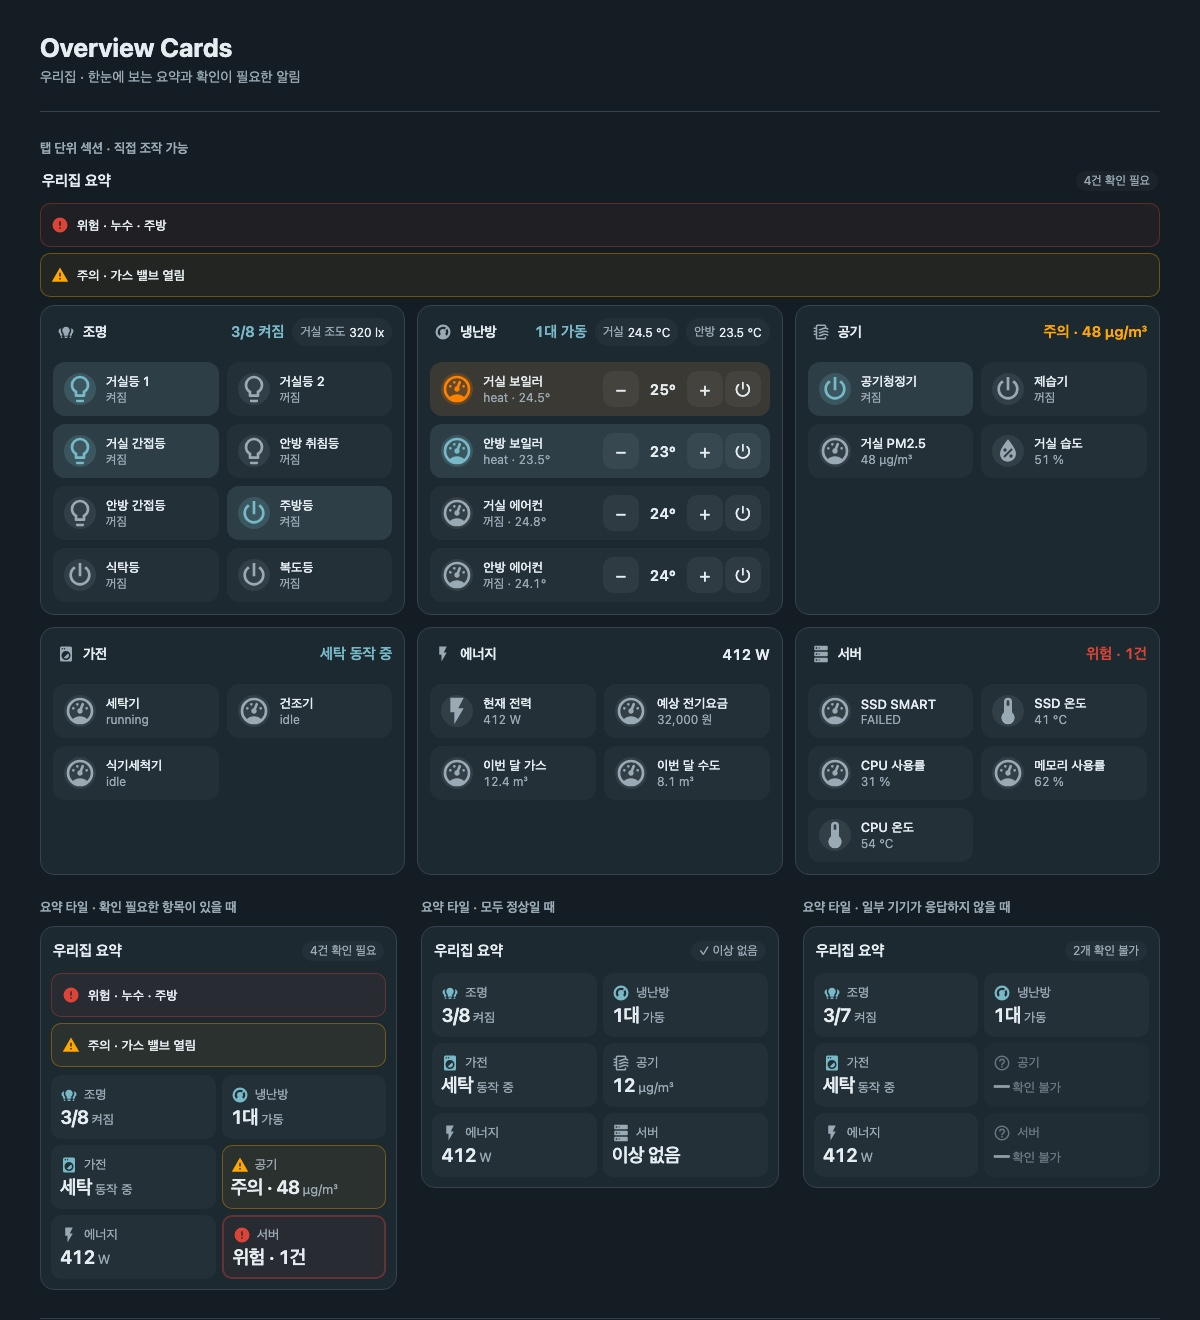
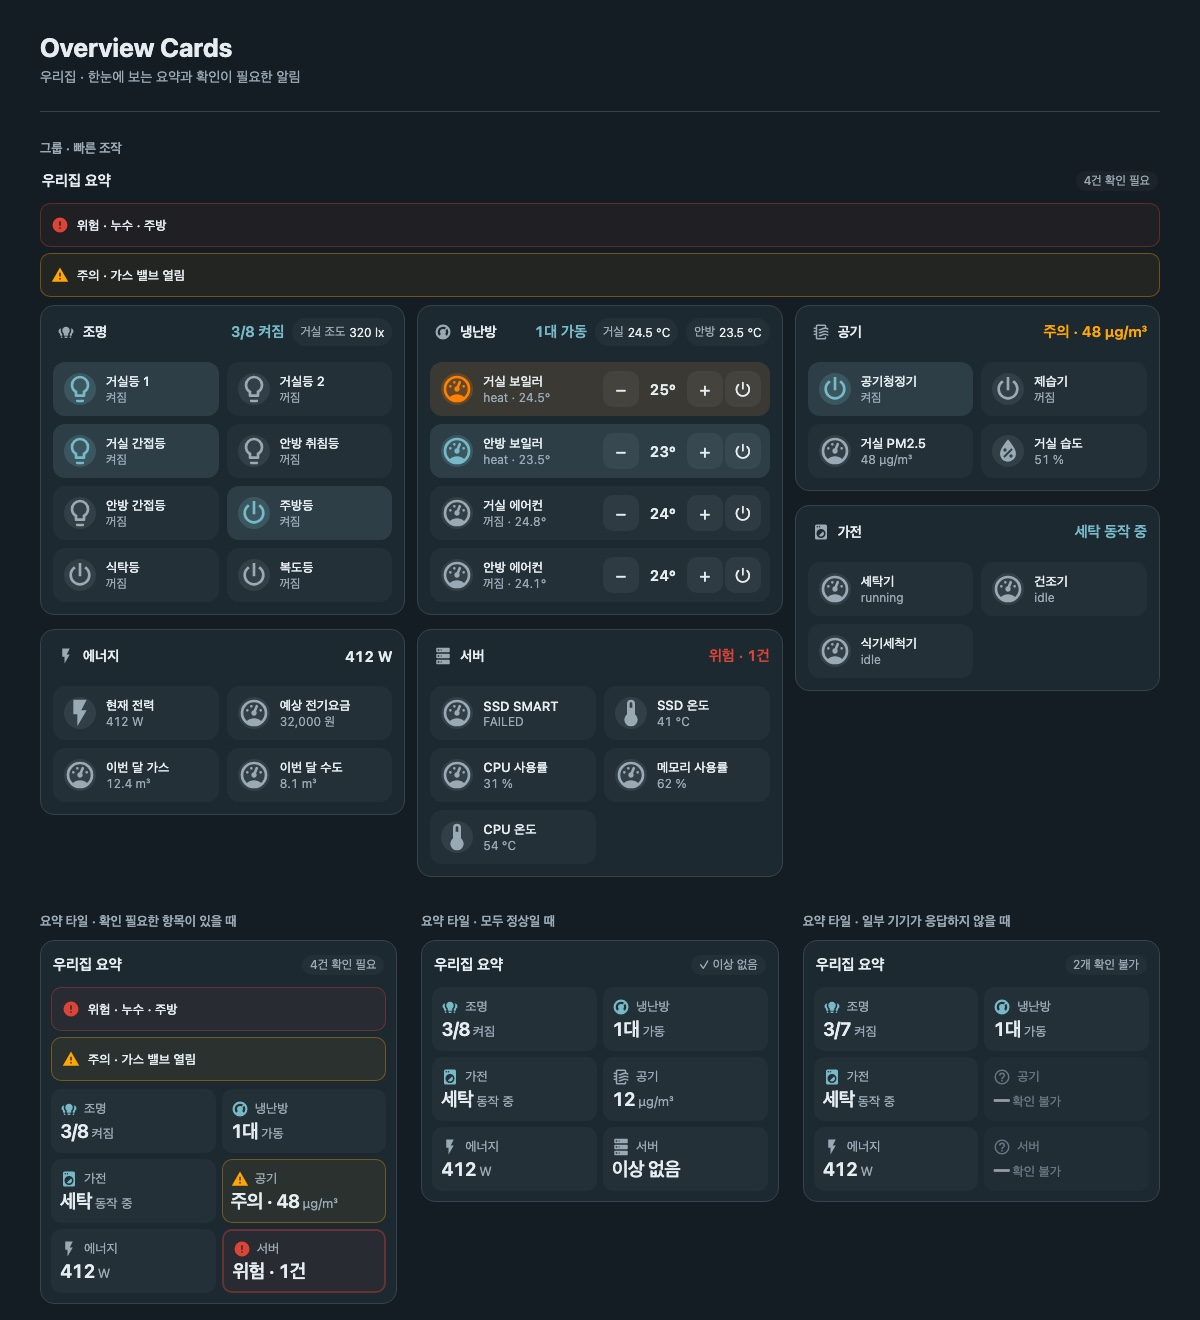
feat: pack groups at natural height and add group span (v0.3.1)

diff --git a/compact-overview-card.js b/compact-overview-card.js
@@ -139,14 +139,17 @@
         .main small{font-size:13px;font-weight:400;letter-spacing:0;color:var(--secondary-text-color);margin-left:3px}
         .main small:empty{display:none}.sub{font-size:12px;color:var(--secondary-text-color);overflow:hidden;text-overflow:ellipsis;white-space:nowrap;min-height:15px}
         @container(max-width:360px){.sub{display:none}.tile{padding:8px}}
-        /* Row-aligned grid: sections in a row share a height, so nothing ends up ragged. */
-        .sections{display:grid;grid-template-columns:repeat(auto-fill,minmax(min(320px,100%),1fr));gap:12px;margin-top:12px;align-items:stretch}.sections:empty{display:none;margin:0}
+        /* Packed grid: each group keeps its natural height and is placed into 4px row units (see _layoutSections), so columns have no blank space inside cards or gaps between them. */
+        .sections{display:grid;grid-template-columns:repeat(auto-fill,minmax(min(320px,100%),1fr));grid-auto-rows:4px;grid-auto-flow:row dense;column-gap:12px;row-gap:0;margin-top:12px;align-items:start}.sections:empty{display:none;margin:0}
         :host([data-bare]) .sections{margin-top:0}
         :host([section-columns="1"]) .sections{grid-template-columns:minmax(0,1fr)}
         :host([section-columns="2"]) .sections{grid-template-columns:repeat(2,minmax(0,1fr))}
         :host([section-columns="3"]) .sections{grid-template-columns:repeat(3,minmax(0,1fr))}
         @container(max-width:639px){:host([section-columns="2"]) .sections,:host([section-columns="3"]) .sections{grid-template-columns:minmax(0,1fr)}}
-        ha-card.section{display:flex;flex-direction:column;overflow:hidden;box-shadow:none}
+        ha-card.section{display:flex;flex-direction:column;overflow:hidden;box-shadow:none;align-self:start}
+        /* A group may span several columns (for example so climate rows fit on one line) when the card is wide enough. */
+        @container(min-width:700px){ha-card.section[data-span="2"],ha-card.section[data-span="3"]{grid-column:span 2}}
+        @container(min-width:1050px){ha-card.section[data-span="3"]{grid-column:span 3}}
         .sec-head{display:flex;align-items:center;gap:8px;flex-wrap:wrap;min-height:44px;padding:4px 12px 0}
         .sec-title{display:flex;align-items:center;gap:8px;flex:1 1 96px;min-width:96px;padding:4px;border:0;border-radius:6px;background:transparent;text-align:left;font:inherit;font-size:14px;font-weight:600;color:var(--primary-text-color)}
         div.sec-title{cursor:default}
@@ -210,6 +213,7 @@
         if (section.icon !== undefined && typeof section.icon !== 'string') fail('icon은 문자열이어야 합니다.');
         if (section.navigation_path !== undefined && !safePath(section.navigation_path)) fail('navigation_path는 /로 시작하는 로컬 경로여야 합니다.');
         if (section.columns !== undefined && !['auto', 1, 2].includes(section.columns)) fail('columns는 auto, 1, 2 중 하나여야 합니다.');
+        if (section.span !== undefined && ![1, 2, 3].includes(section.span)) fail('span은 1, 2, 3 중 하나여야 합니다.');
         const hasItems = section.items !== undefined, hasControls = section.controls !== undefined;
         if (!hasItems && !hasControls) fail('controls 또는 items가 필요합니다.');
         if (hasItems && (!Array.isArray(section.items) || !section.items.length || section.items.some(item => !item || typeof item !== 'object' || Array.isArray(item)))) fail('items에는 compact-home-panel 항목 목록이 필요합니다.');
@@ -235,6 +239,21 @@
       this.setAttribute('section-columns', config.section_columns ?? 'auto');
       this.toggleAttribute('data-bare', !tilesIn.length);
       this._build(); this._render();
+    }
+    connectedCallback() {
+      if (typeof ResizeObserver === 'function' && !this._resize) this._resize = new ResizeObserver(() => this._layoutSections());
+      for (const ref of this._sections) this._resize?.observe(ref.card);
+      this._layoutSections();
+    }
+    disconnectedCallback() { this._resize?.disconnect(); }
+    // Packs groups masonry-style: row span = group height in 4px units plus the 12px gap.
+    _layoutSections() {
+      for (const ref of this._sections) {
+        const height = ref.card.getBoundingClientRect().height;
+        if (!height) continue;
+        const span = `span ${Math.ceil((height + 12) / 4)}`;
+        if (ref.card.style.gridRowEnd !== span) ref.card.style.gridRowEnd = span;
+      }
     }
     set hass(hass) { this._hass = hass; this._render(); }
     getCardSize() {
@@ -423,8 +442,10 @@
 
     _buildSections() {
       const box = this.shadowRoot.querySelector('.sections'); box.replaceChildren(); this._sections = [];
+      this._resize?.disconnect();
       for (const section of this._config.sections ?? []) {
         const card = document.createElement('ha-card'); card.className = 'section';
+        if (section.span && section.span > 1) card.dataset.span = String(section.span);
         const head = document.createElement('div'); head.className = 'sec-head';
         const title = document.createElement(section.navigation_path ? 'button' : 'div'); title.className = 'sec-title';
         if (section.navigation_path) { title.onclick = () => this._go(section.navigation_path); title.setAttribute('aria-label', `${section.name} 열기`); }
@@ -444,6 +465,7 @@
         const body = document.createElement('div'); body.className = 'sec-body';
         card.append(head, controls, body); box.append(card);
         this._sections.push({ section, card, sum, badges, body, chips });
+        this._resize?.observe(card);
       }
     }
 

diff --git a/examples/showcase.html b/examples/showcase.html
@@ -54,7 +54,7 @@ function mount(host,config,scenario){
   card.addEventListener('hass-more-info',e=>notify(translate('모의 정보')+' · '+e.detail.entityId));host.append(card);
 }
 const main=document.querySelector('main');
-const wide=document.createElement('section');wide.className='wide';const wideTitle=document.createElement('h2');wideTitle.textContent='탭 단위 섹션 · 직접 조작 가능';wide.append(wideTitle);mount(wide,sectionsConfig,'alert');main.append(wide);
+const wide=document.createElement('section');wide.className='wide';const wideTitle=document.createElement('h2');wideTitle.textContent='그룹 · 빠른 조작';wide.append(wideTitle);mount(wide,sectionsConfig,'alert');main.append(wide);
 for(const [scenario,label]of [['alert','요약 타일 · 확인 필요한 항목이 있을 때'],['normal','요약 타일 · 모두 정상일 때'],['offline','요약 타일 · 일부 기기가 응답하지 않을 때']]){
   const section=document.createElement('section'),title=document.createElement('h2');title.textContent=label;section.append(title);mount(section,tilesConfig,scenario);main.append(section);
 }

diff --git a/examples/preview-locale.js b/examples/preview-locale.js
@@ -219,7 +219,7 @@ const dictionary={
  '일부 기기가 응답하지 않을 때':'When some devices do not respond',
  '우리집 · 한눈에 보는 요약과 확인이 필요한 알림':'My Home · An at-a-glance summary and alerts that need attention',
  '실제 Overview Cards로 구성한 모의 대시보드입니다. 표시된 값과 동작은 예시이며 실제 기기에 연결하지 않습니다.':'A mock dashboard built with the real Overview Cards. Values and actions are examples and nothing is connected to real devices.',
- '탭 단위 섹션 · 직접 조작 가능':'Tab sections · direct control',
+ '그룹 · 빠른 조작':'Groups · quick controls',
  '요약 타일 · 확인 필요한 항목이 있을 때':'Summary tiles · When something needs attention',
  '요약 타일 · 모두 정상일 때':'Summary tiles · When everything is normal',
  '요약 타일 · 일부 기기가 응답하지 않을 때':'Summary tiles · When some devices do not respond',

diff --git a/README.ko.md b/README.ko.md
@@ -70,10 +70,11 @@ sections:
 | `controls` | 예* | 빠른 조작 칩(아래) |
 | `items` | 예* | 칩 아래에 표시할 `compact-home-panel` 행(Compact Cards 필요). `*` `controls`/`items` 중 하나 이상 |
 | `icon`, `navigation_path` | 아니요 | 제목 아이콘, 로컬 경로 |
+| `span` | 아니요 | `2` 또는 `3`: 카드 폭이 700px 이상(3은 1050px 이상)일 때 그룹이 그 열 수만큼 차지합니다. 냉난방 행을 한 줄에 표시하려는 경우 등에 사용하며, 더 좁은 카드에서는 무시합니다 |
 | `summary` | 아니요 | `name` 없는 타일 사양(`count`, `climate`, `status`, `value`, `health`). 헤더에 굵게, 수준 색상으로 표시 |
 | `badges` | 아니요 | `[{ entity, name }]` 요약 옆 센서 값. 누르면 상세 정보 |
 
-최상위 `section_columns`(`auto`, `1`, `2`, `3`)는 그룹 열 수입니다. `auto`는 320px 이상 폭의 그룹을 가로로 채우고 행 단위로 정렬해 높이를 맞추며, 모바일에서는 1열입니다. PC에서 전체 폭을 쓰려면 Home Assistant 섹션 뷰에서 이 카드가 들어간 섹션에 `column_span`(예: `3`)을 지정하세요.
+최상위 `section_columns`(`auto`, `1`, `2`, `3`)는 그룹 열 수입니다. `auto`는 320px 이상 폭의 그룹을 가로로 채우고 원래 높이 그대로 위에서부터 빈틈 없이 쌓으며(카드 안에 빈 공간이 생기지 않음), 모바일에서는 1열입니다. PC에서 전체 폭을 쓰려면 Home Assistant 섹션 뷰에서 이 카드가 들어간 섹션에 `column_span`(예: `3`)을 지정하세요.
 
 ### 빠른 조작 칩
 

diff --git a/README.md b/README.md
@@ -72,10 +72,11 @@ Prefer a controls-free summary grid? Use `tiles` instead of `sections`; see [the
 | `controls` | yes* | Quick-control chips (below) |
 | `items` | yes* | Optional `compact-home-panel` rows shown under the chips (needs Compact Cards). `*` at least one of `controls`/`items` |
 | `icon`, `navigation_path` | no | Title icon and local path |
+| `span` | no | `2` or `3`: let the group take that many columns when the card is at least 700px (1050px for 3), for example so climate rows fit on one line. Ignored on narrower cards |
 | `summary` | no | A tile spec without `name` (`count`, `climate`, `status`, `value`, `health`); shown bold in the header, coloured by level |
 | `badges` | no | `[{ entity, name }]` readings next to the summary; tap opens the entity |
 
-Top-level `section_columns` (`auto`, `1`, `2`, `3`) sets the group columns. `auto` fills the width with groups at least 320px wide, aligned in rows so heights match; on mobile it is a single column. Put the card in a section with `column_span` (for example `3`) in Home Assistant's sections view to use the full width on a PC.
+Top-level `section_columns` (`auto`, `1`, `2`, `3`) sets the group columns. `auto` fills the width with groups at least 320px wide, packed from the top at their natural height with no blank space inside cards or gaps between them; on mobile it is a single column. Put the card in a section with `column_span` (for example `3`) in Home Assistant's sections view to use the full width on a PC.
 
 ### Quick-control chips
 

diff --git a/docs/compact-overview-card.md b/docs/compact-overview-card.md
@@ -60,11 +60,12 @@ sections:
 | `items` | 예* | — | 칩 아래에 표시할 `compact-home-panel` 행([해당 카드](https://github.com/eigger/hass-compact-cards/blob/main/docs/compact-home-panel.md)와 동일, Compact Cards 필요). `*` 둘 중 하나 이상 |
 | `icon` | 아니요 | `mdi:circle-outline` | 제목 아이콘 |
 | `navigation_path` | 아니요 | 없음 | `/`로 시작하는 로컬 경로 |
+| `span` | 아니요 | `1` | `2` 또는 `3`. 카드 폭 700px 이상(3은 1050px 이상)에서 그룹이 여러 열을 차지해 냉난방 행처럼 넓은 행이 한 줄에 표시됩니다. 좁은 카드(모바일)에서는 무시합니다 |
 | `columns` | 아니요 | `auto` | `items`의 열 수 `auto`, `1`, `2` |
 | `summary` | 아니요 | 없음 | `name` 없는 타일 사양. 헤더에 `3/8 켜짐`, `주의 · 48 µg/m³` 형태로 표시 |
 | `badges` | 아니요 | 없음 | `[{entity, name}]`. 헤더의 센서 값. 누르면 상세 정보 |
 
-그룹은 행 단위로 정렬해 같은 행의 높이를 맞춥니다. 모바일에서는 1열입니다.
+그룹은 원래 높이 그대로 위에서부터 빈틈 없이 쌓습니다(카드 안에 빈 공간이 생기지 않음). 모바일에서는 1열입니다.
 
 ## 빠른 조작 칩
 

diff --git a/CHANGELOG.md b/CHANGELOG.md
@@ -2,10 +2,15 @@
 
 ## Unreleased
 
+## 0.3.1 — 2026-10-31
+
+- Add group `span` (2 or 3 columns on wide cards) so wide rows such as climate controls stay on one line.
+- Pack groups at their natural height instead of stretching them to equal row heights, so short groups no longer show blank space and columns have no gaps (a ResizeObserver assigns each group its row span).
+
 ## 0.3.0 — 2026-10-31
 
 - Add quick-control `controls` chips to groups: toggle lights/switches/fans, step climate targets with −/+ (one debounced request, clamped to the entity range) and a power button, press buttons and run scripts/scenes with optional confirmation, and open details for sensors. Chips are dimmed and never commanded while unavailable; duplicate taps are blocked and failures are reported.
-- Lay groups out as row-aligned grid cells (heights match) with a bold header summary; groups stack in one column on mobile. `items` (embedded `compact-home-panel` rows) are now optional.
+- Lay groups out as a packed grid (natural heights, no blank space) with a bold header summary; groups stack in one column on mobile. `items` (embedded `compact-home-panel` rows) are now optional.
 
 ## 0.2.0 — 2026-10-31
 

diff --git a/images/README.md b/images/README.md
@@ -6,9 +6,9 @@ Run `python3 -m http.server 8131 --bind 127.0.0.1` in the repository root and op
 
 | Image | Source page | Viewport |
 | --- | --- | --- |
-| `overview-card.jpg` | `preview.html?scenario=alert&width=1120&capture=true` | 1136 × 700 |
-| `overview-card-clear.jpg` | `preview.html?scenario=normal&width=1120&capture=true` | 1136 × 640 |
-| `overview-card-dark.jpg` | `preview.html?scenario=alert&width=1120&theme=dark&capture=true` | 1136 × 700 |
+| `overview-card.jpg` | `preview.html?scenario=alert&width=1120&capture=true` | 1136 × 740 |
+| `overview-card-clear.jpg` | `preview.html?scenario=normal&width=1120&capture=true` | 1136 × 680 |
+| `overview-card-dark.jpg` | `preview.html?scenario=alert&width=1120&theme=dark&capture=true` | 1136 × 740 |
 | `overview-card-mobile.jpg` | `preview.html?scenario=alert&width=390&capture=true` in a 390px frame | 390 × 1650 |
 | `overview-tiles.jpg`, `overview-tiles-clear.jpg`, `overview-tiles-offline.jpg` | `preview.html?variant=tiles&scenario=alert\|normal\|offline&capture=true` | 422 × 432 / 336 / 336 |
 | `showcase-light.jpg`, `showcase-dark.jpg` | `showcase.html?capture=true` (`&theme=dark`) | 1200 × 1320 |
